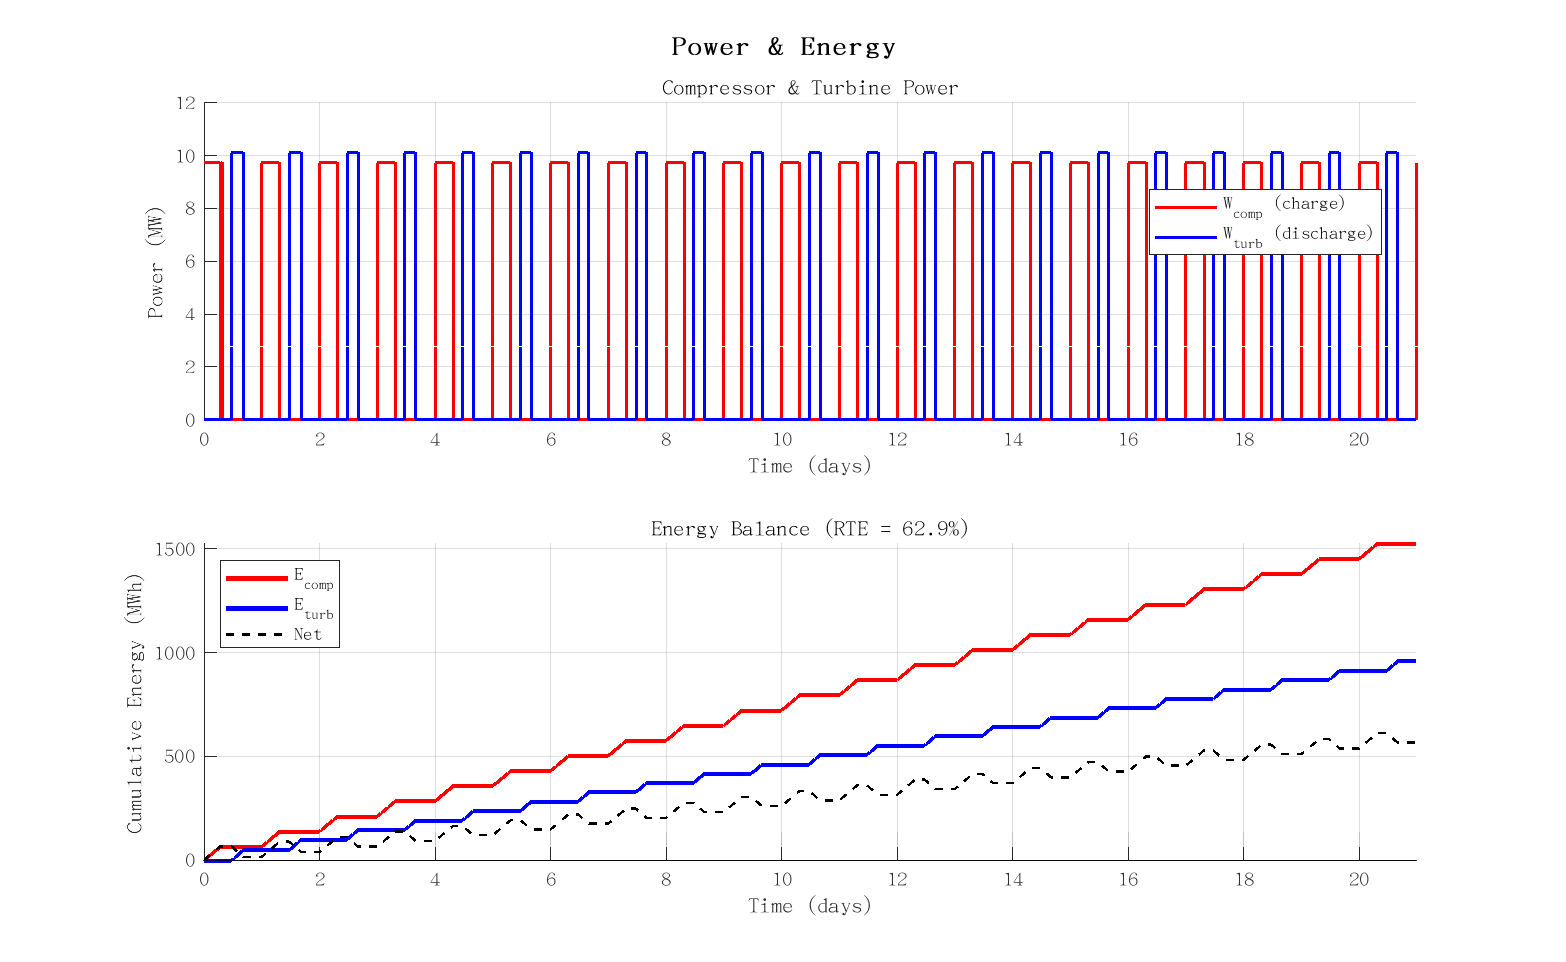
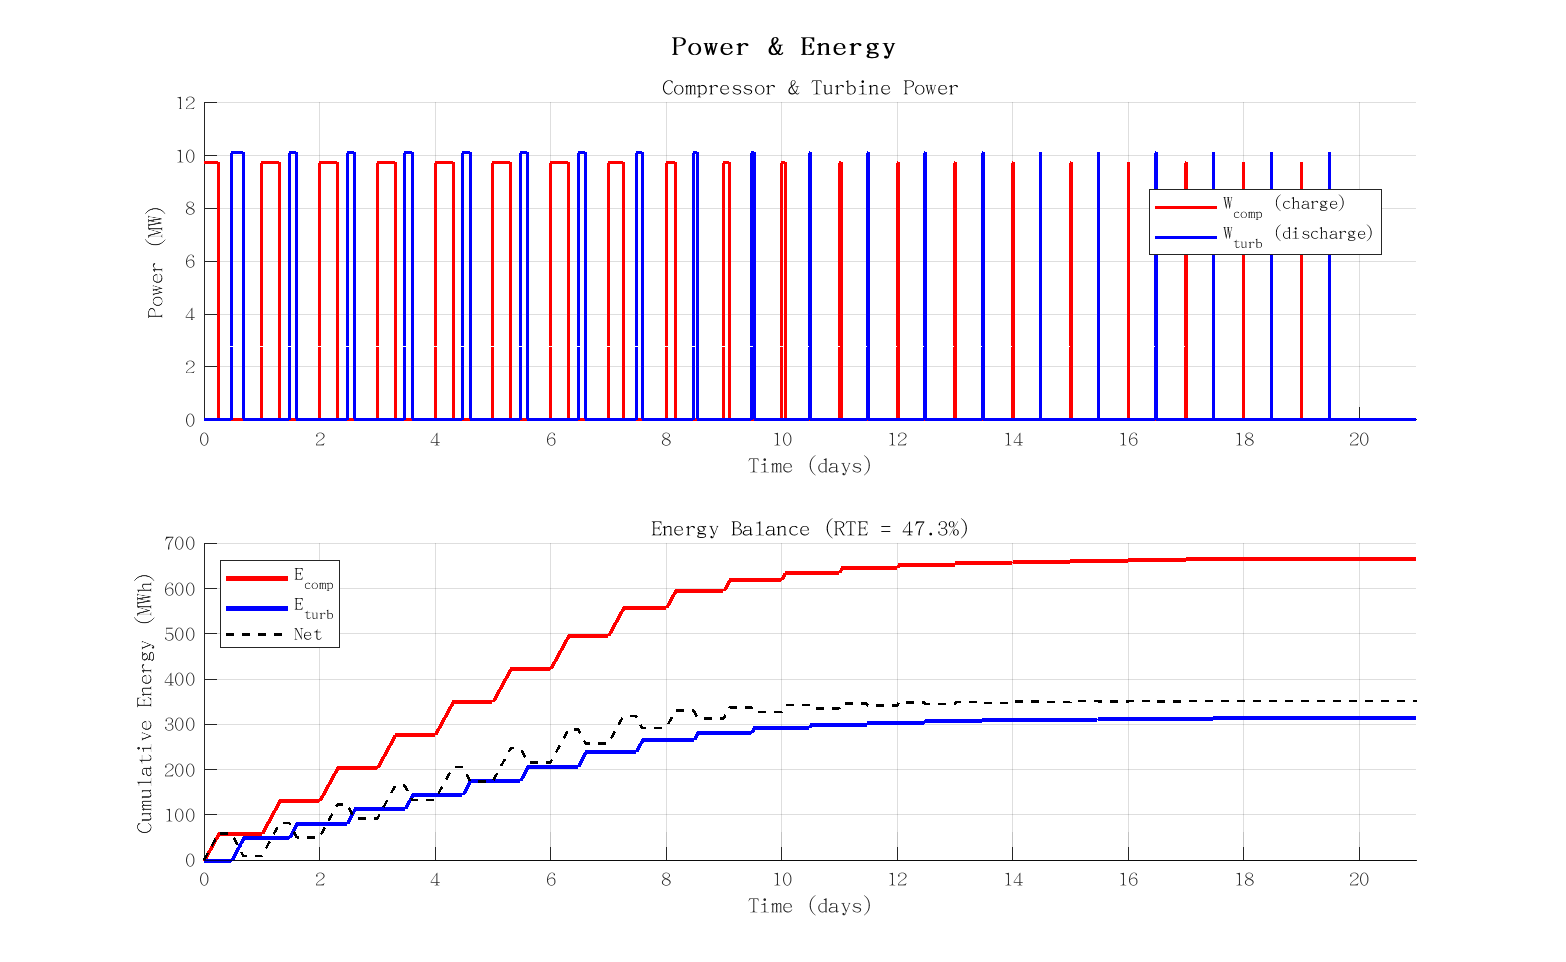
feat: two-tank thermal oil HTV with constant reheat temperature
Replace single-tank variable-T model with two-tank system:
- Hot tank (573K) and cold tank (298K), total 924 m³
- T_heat=573K constant during discharge (always max temp)
- State: V_hot [m³], charge fills hot tank, discharge empties it
- Q = V_hot * rho_oil * cp_oil * ΔT

diff --git a/CCES_CHP_Simulink/src/ode/ode_dynamics.m b/CCES_CHP_Simulink/src/ode/ode_dynamics.m
@@ -1,30 +1,30 @@
 function [dx, W_comp, Q_IC, W_turb, Q_HR, T_heat, mode] = ode_dynamics(t, x)
-% 两相HPT + 导热油HTV详细模型
-% x(1)=m_HPT [kg], x(2)=T_HTV [K], x(3)=T_tank [K]
-persistent lib Fluid T_sat_vec P_sat_vec V_HPT mcp_oil UA_loss T_amb T_max
+% 两相HPT + 双罐导热油HTV
+% x(1)=m_HPT [kg], x(2)=V_hot [m³], x(3)=T_tank [K]
+persistent lib Fluid T_sat_vec P_sat_vec V_HPT rho_oil cp_oil T_hot T_cold V_total
 
 if isempty(lib)
     addpath(fullfile(fileparts(mfilename('fullpath')), '..', '..'));
     cfg = config_paths();
     lib = cfg.REFPROP_LIB;  Fluid = 'CO2';
-    V_HPT = 6228;  T_amb = 298;  T_max = 573;
-    % HPT 饱和曲线 LUT
-    T_sat_vec = (260:0.5:304)';
-    P_sat_vec = zeros(size(T_sat_vec));
+    V_HPT = 6228;
+    T_sat_vec = (260:0.5:304)';  P_sat_vec = zeros(size(T_sat_vec));
     for i = 1:length(T_sat_vec)
         P_sat_vec(i) = getFP(lib, 'P', 'T', T_sat_vec(i), 'Q', 0, Fluid);
     end
-    % HTV 导热油: Q_cap=150MWh_th, ΔT_max=275K, m*cp=Q_cap/ΔT
-    mcp_oil = 150*3600 / (T_max - T_amb);  % ≈1964 MJ/K
-    UA_loss = 0.005;  % MW/K, 工业保温罐散热系数
-    fprintf('HTV导热油: m*cp=%.0f MJ/K, Tmax=%.0fK, UA=%.3f MW/K\n', mcp_oil, T_max, UA_loss);
-    fprintf('HPT两相: P_sat LUT %dpts (%.0f-%.0fK)\n', length(T_sat_vec), T_sat_vec(1), T_sat_vec(end));
+    % 导热油: 双罐系统, 热罐~573K, 冷罐~298K
+    T_hot  = 573;  T_cold = 298;  % K
+    rho_oil = 850;  cp_oil = 2.5;  % kg/m³, kJ/(kg·K)
+    V_total = 150*3600*1000 / (rho_oil * cp_oil * (T_hot - T_cold));  % MJ→kJ, ≈923 m³
+    fprintf('双罐HTV: Th=%.0fK Tc=%.0fK, V_total=%.0f m3, rho*cp=%.0f kJ/m3K\n',...
+        T_hot, T_cold, V_total, rho_oil*cp_oil);
+    fprintf('HPT两相: P_sat LUT %dpts\n', length(T_sat_vec));
 end
 
-m_HPT = x(1);  T_HTV = x(2);  T_tank = x(3);
-Q_HTV_MJ = mcp_oil * max(0, T_HTV - T_amb);  % 蓄热量 [MJ]
+m_HPT = x(1);  V_hot = x(2);  T_tank = x(3);
+V_hot = max(0, min(V_total, V_hot));
 
-% HPT 两相压力
+% HPT 压力
 T_clamp = max(260, min(304, T_tank));
 P_sat_T = interp1(T_sat_vec, P_sat_vec, T_clamp, 'linear');
 rho_liq_T = getFP(lib, 'D', 'T', T_clamp, 'Q', 0, Fluid);
@@ -32,11 +32,11 @@ rho_vap_T = getFP(lib, 'D', 'T', T_clamp, 'Q', 1, Fluid);
 m_sat_liq = rho_liq_T * V_HPT;
 m_sat_vap = rho_vap_T * V_HPT;
 if m_HPT >= m_sat_liq
-    P_MPa = P_sat_T/1e6 + (m_HPT - m_sat_liq)/m_sat_liq * 1000;
-elseif m_HPT > m_sat_vap * 0.05
-    P_MPa = P_sat_T / 1e6;
+    P_MPa = P_sat_T/1e6 + (m_HPT-m_sat_liq)/m_sat_liq*1000;
+elseif m_HPT > m_sat_vap*0.05
+    P_MPa = P_sat_T/1e6;
 else
-    P_MPa = m_HPT * 188.9 * T_tank / V_HPT / 1e6;
+    P_MPa = m_HPT*188.9*T_tank/V_HPT/1e6;
 end
 
 % 调度
@@ -47,45 +47,45 @@ elseif t_h < 16.5;   mode = -1;
 else;                mode = 0;
 end
 
-% 约束 (基于油温)
+% 约束
 P_ok_ch  = m_HPT < m_sat_liq * 0.995;
 P_ok_dis = m_HPT > m_sat_vap * 1.05;
-Q_ok_ch  = T_HTV < T_max - 5;
-Q_ok_dis = T_HTV > T_amb + 10;
-T_heat = max(T_amb, min(T_max, T_HTV));  % CO2加热=当前油温
+Q_ok_ch  = V_hot < V_total * 0.98;
+Q_ok_dis = V_hot > V_total * 0.02;
+T_heat = T_hot;  % 恒温热油 → CO2 加热温度恒定为设计值
+
+rho_cp = rho_oil * cp_oil;  % kJ/m³K
 
 if mode == 1 && P_ok_ch && Q_ok_ch
-    % ===== 充电 =====
+    % ===== 充电: 冷油→IC→热罐 =====
     alpha_ch = 2.744;  m_dot = alpha_ch * 10;
     [~, q_IC_kJ] = charge_per_kg(lib, Fluid);
+    Q_IC_MW = q_IC_kJ * m_dot / 1000;          % MW_th
     dm_HPT = m_dot;
-    Q_IC_MW = q_IC_kJ * m_dot / 1000;
-    dT_HTV = (Q_IC_MW - UA_loss*(T_HTV-T_amb)) / mcp_oil;
+    dV_hot = Q_IC_MW * 1000 / (rho_cp * (T_hot - T_cold));  % m³/s
     dT_tank = (298 - T_tank) / 600;
-    W_comp = m_dot * charge_per_kg(lib, Fluid) / 1000;  % MW
+    W_comp = m_dot * charge_per_kg(lib, Fluid) / 1000;
     Q_IC = Q_IC_MW;  W_turb = 0;  Q_HR = 0;
 
 elseif mode == -1 && P_ok_dis && Q_ok_dis
-    % ===== 放电 =====
+    % ===== 放电: 热油→再热器→冷罐 =====
     alpha_dis = 4.117;  W_T = 10.12;
     m_dot = alpha_dis * W_T;
     [~, q_HR_kJ] = discharge_per_kg(lib, Fluid, T_tank, T_heat);
-    dm_HPT = -m_dot;
     Q_HR_MW = q_HR_kJ * m_dot / 1000;
-    dT_HTV = (-Q_HR_MW - UA_loss*(T_HTV-T_amb)) / mcp_oil;
+    dm_HPT = -m_dot;
+    dV_hot = -Q_HR_MW * 1000 / (rho_cp * (T_hot - T_cold));
     dT_tank = -m_dot * 3e-5;
     W_comp = 0;  Q_IC = 0;
     W_turb = W_T;  Q_HR = Q_HR_MW;
 
 else
-    % ===== 待机 =====
-    dm_HPT = 0;
-    dT_HTV = -UA_loss*(T_HTV-T_amb) / mcp_oil;
-    dT_tank = (T_amb - T_tank) / 50000;
+    dm_HPT = 0;  dV_hot = 0;
+    dT_tank = (298 - T_tank) / 50000;
     W_comp = 0;  Q_IC = 0;  W_turb = 0;  Q_HR = 0;
 end
 
-dx = [dm_HPT; dT_HTV; dT_tank];
+dx = [dm_HPT; dV_hot; dT_tank];
 end
 
 %% ==== 充电: 单位工质压缩机总功 + IC回收热 [kJ/kg] ====

diff --git a/CCES_CHP_Simulink/src/ode/run_ode_simulation.m b/CCES_CHP_Simulink/src/ode/run_ode_simulation.m
@@ -16,28 +16,28 @@ rho_liq = getFluidProperty(cfg.REFPROP_LIB, 'D', 'T', T_amb, 'P', 6.80e6, ...
     'CO2', 1, 1, 'MASS BASE SI');  % 过冷液密度 ~713 kg/m3
 m_full = rho_liq * V_HPT;    % 满液质量 ~4,439 t
 m_HPT_0 = 0.5 * m_full;      % 初始50%充装
-T_amb = 298;  T_max = 573;
-T_HTV_0 = 298 + 0.5 * (T_max - T_amb);  % 50% SOC → 435.5 K
-Q_init_MJ = 150*3600 / (T_max-T_amb) * (T_HTV_0 - T_amb);  % 75 MWh
+Th=573; Tc=298; rho_oil=850; cp_oil=2.5;
+V_total = 150*3600*1000 / (rho_oil * cp_oil * (Th - Tc));  % MJ→kJ, ~923 m³
+V_hot_0 = 0.5 * V_total;  % 50% SOC
+Q_HTV_0 = V_hot_0 * rho_oil * cp_oil * (Th - Tc) / 3600;  % MWh_th
 
-fprintf('HTV导热油: T_init=%.0f K (%.0f MWh)\n', T_HTV_0, Q_init_MJ/3600);
+fprintf('双罐HTV: V_total=%.0f m3, V_hot_0=%.0f (%.0f MWh)\n', V_total, V_hot_0, Q_HTV_0);
 
 %% 初始状态
 T_tank_0 = 298;
-x0 = [m_HPT_0; T_HTV_0; T_tank_0];
+x0 = [m_HPT_0; V_hot_0; T_tank_0];
 
 %% 仿真
 dt = 180;  t_sim = 21 * 86400;  tspan = 0:dt:t_sim;
-fprintf('CCES-CHP ODE仿真 (21天, 导热油HTV): 充电7.5h 放电5h\n');
+fprintf('CCES-CHP ODE仿真 (21天, 双罐HTV): 充电7.5h 放电5h\n');
 
 opts = odeset('RelTol', 2e-4, 'MaxStep', 900);
 [t, x] = ode45(@ode_dynamics, tspan, x0, opts);
 
 %% 后处理
-m_HPT = x(:,1);  T_HTV = x(:,2);  T_tank = x(:,3);
-% HPT压力: 有液时6.80 MPa, 排空时降压
-mcp_oil = 150*3600 / (573-298);
-Q_HTV = mcp_oil * max(0, T_HTV - 298);
+m_HPT = x(:,1);  V_hot = x(:,2);  T_tank = x(:,3);
+Th=573; Tc=298;
+Q_HTV = V_hot * 850 * 2.5 * (Th - Tc) / 1000;  % [MJ], kJ→MJ
 Q_cap = 150 * 3600;
 P_HPT = 6.80 * ones(size(m_HPT));
 P_HPT(m_HPT < m_full * 0.05) = m_HPT(m_HPT < m_full * 0.05) .* 188.9 .* T_tank(m_HPT < m_full * 0.05) / V_HPT / 1e6;
